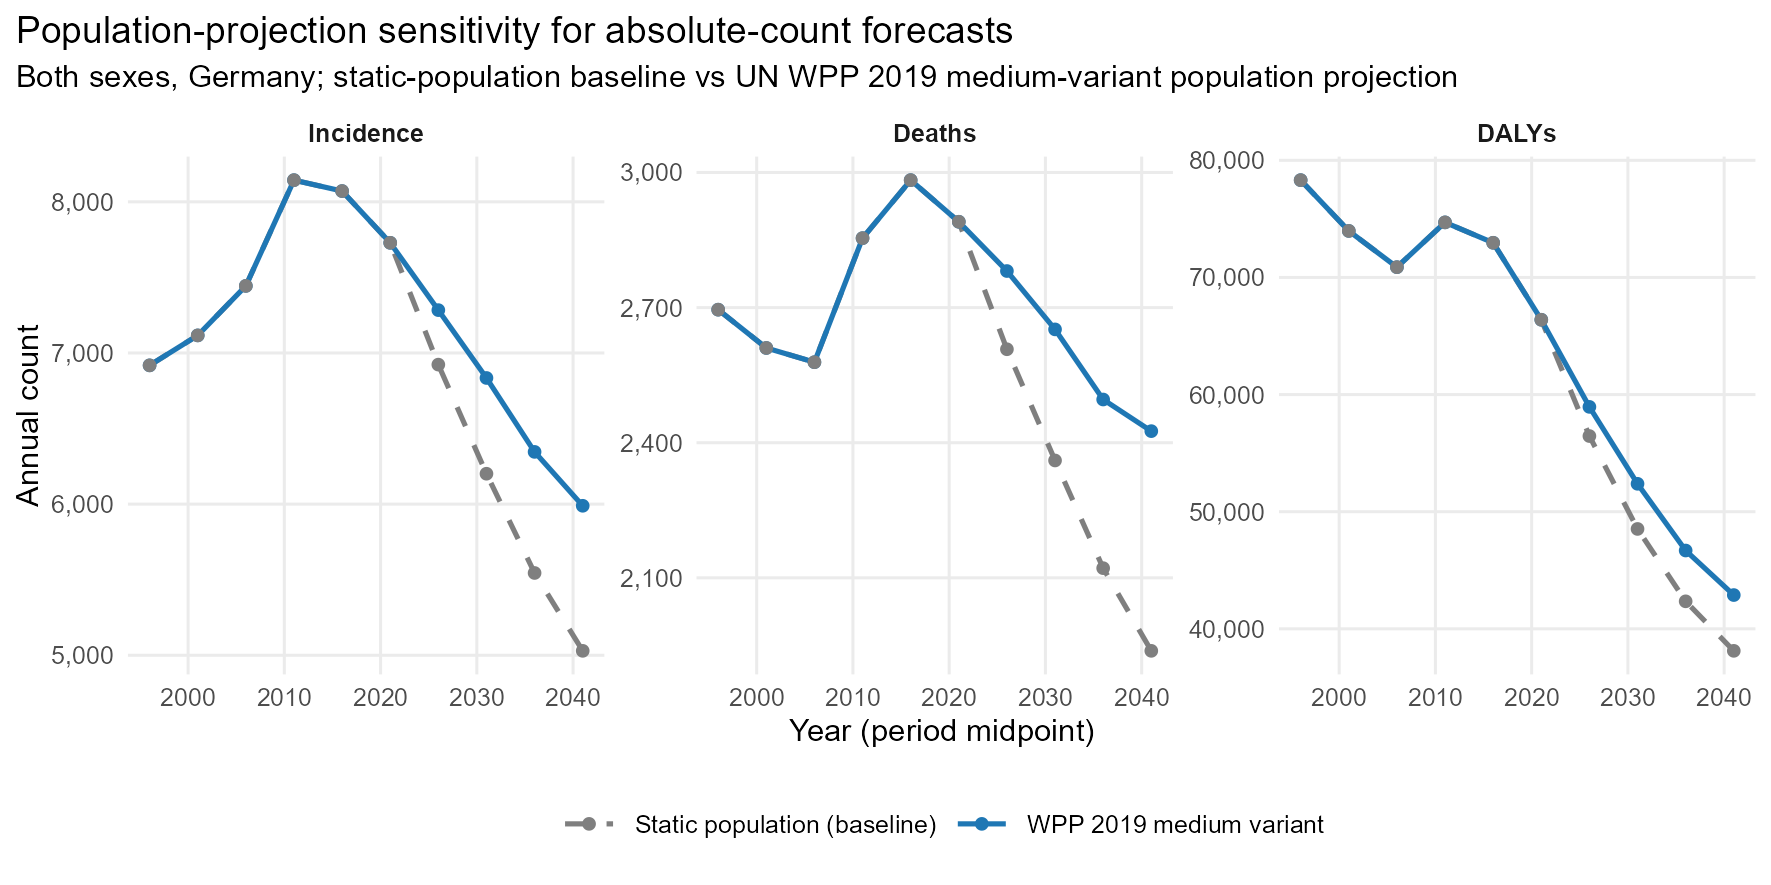
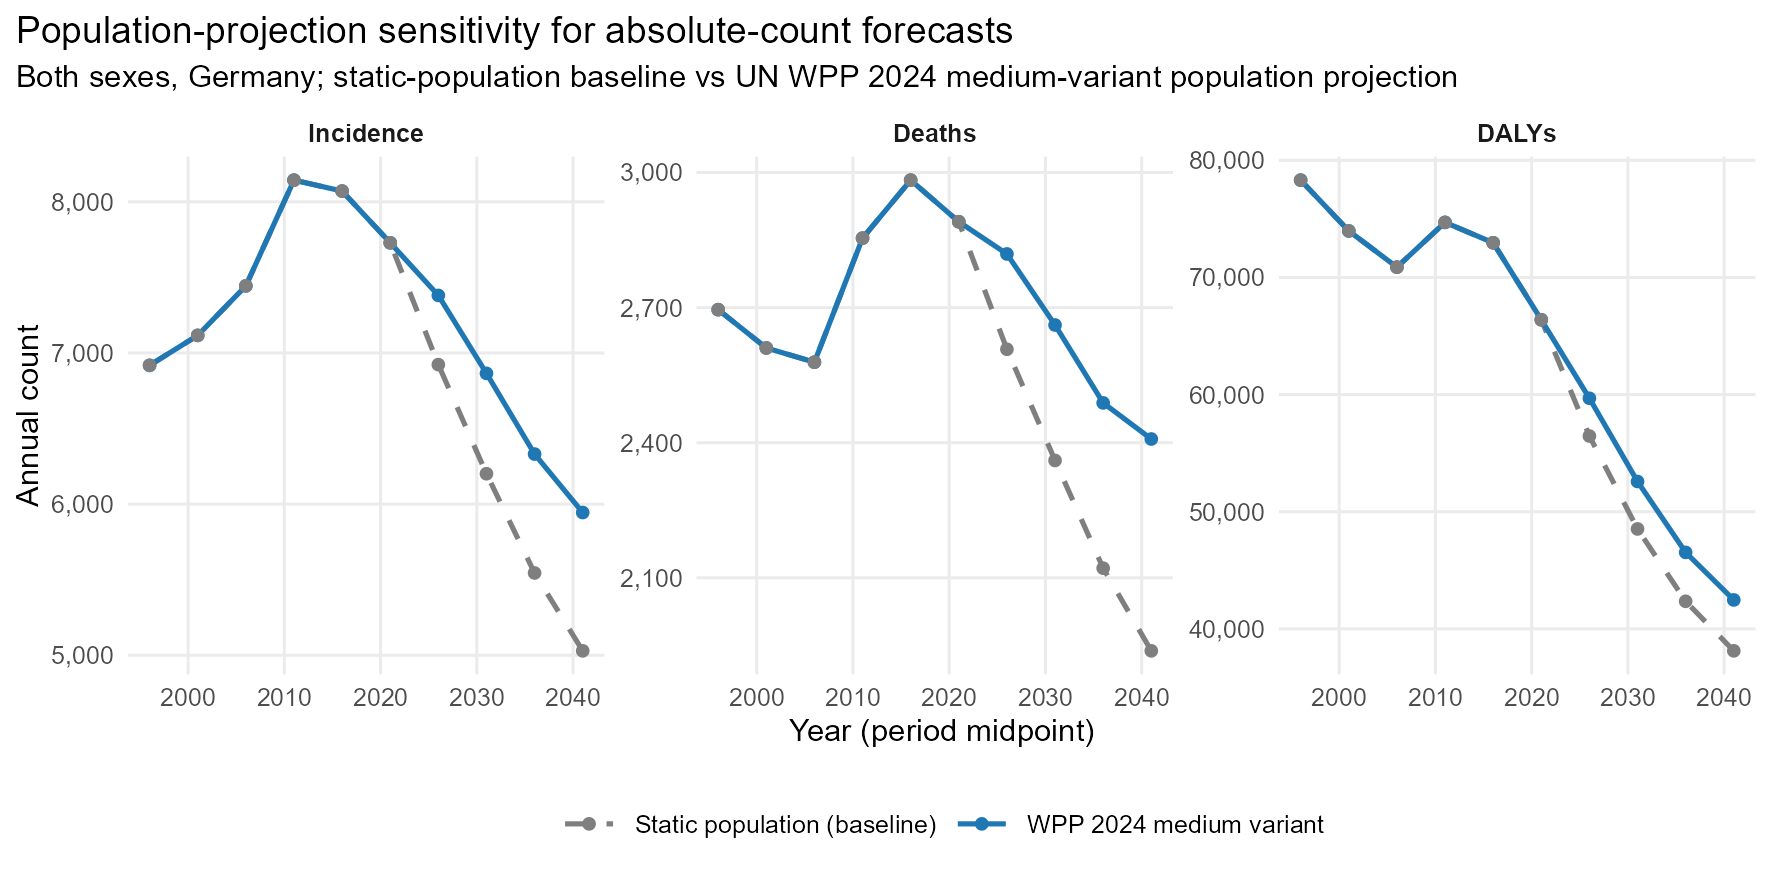
Update population-projection sensitivity from WPP 2019 to WPP 2024
UN World Population Prospects 2024 (released 11 July 2024) replaces the
WPP 2019 medium-variant projection used in the previous version. The
wpp2024 R package is installed from PPgp/wpp2024 on GitHub (not on CRAN
because of its size). Regenerated eFigure 4 and the
population_sensitivity.csv accordingly. WPP-vs-static sensitivity
narrowed slightly: under WPP 2024, deaths and incident cases by 2040
are approximately 2,410 and 5,940 (versus 2,430 and 5,990 under WPP
2019; static-population baseline ~1,940 and ~5,030 unchanged).

diff --git a/README.md b/README.md
@@ -60,7 +60,7 @@ in Germany, based on the Global Burden of Disease Study 2023.
 3. **Download the input data** following `data/README.md`. The two GBD CSV
    files go to `data/gbd_cause/` and `data/gbd_risk/`; the two optional ZfKD
    CSV files go to `data/zfkd/`. The WPP 2024 input is installed automatically
-   as an R package.
+   as an R package from GitHub (PPgp/wpp2024) by `00_setup.R`.
 
 4. **Run the analysis scripts in order**:
 
@@ -81,9 +81,11 @@ in Germany, based on the Global Burden of Disease Study 2023.
 ## R packages
 
 The setup script installs the following CRAN packages: `data.table`, `ggplot2`,
-`dplyr`, `tidyr`, `readr`, `scales`, `patchwork`, `remotes`, `segmented`,
-`wpp2024`. The `nordpred` package is installed from a GitHub fork because the
-original CRAN release is no longer maintained for current R versions.
+`dplyr`, `tidyr`, `readr`, `scales`, `patchwork`, `remotes`, `segmented`. The
+`nordpred` package is installed from a GitHub fork because the original CRAN
+release is no longer maintained for current R versions. The `wpp2024` package
+is installed from [PPgp/wpp2024](https://github.com/PPgp/wpp2024) on GitHub;
+it is not on CRAN because of its size.
 
 ## Citation
 
@@ -95,7 +97,8 @@ Underlying data should be cited as documented in `data/README.md`:
 - GBD 2023: Global Burden of Disease Collaborative Network. Global Burden of
   Disease Study 2023 (GBD 2023) Results. Seattle: IHME, 2024.
 - ZfKD: Zentrum für Krebsregisterdaten im Robert Koch-Institut.
-- WPP 2024: UN Population Division. World Population Prospects 2024.
+- WPP 2024: United Nations, Department of Economic and Social Affairs,
+  Population Division. World Population Prospects 2024 (released 11 July 2024).
 
 ## License
 

diff --git a/data/README.md b/data/README.md
@@ -57,11 +57,11 @@ Two queries (Inzidenz and Mortalität) with these settings:
 Save the two CSVs as `data/zfkd/zfkd_incidence_c00_c08.csv` and
 `data/zfkd/zfkd_mortality_c00_c08.csv`. Used only by `analysis/06_zfkd_comparison.R`.
 
-## 3. UN World Population Prospects 2019
+## 3. UN World Population Prospects 2024
 
-Source: the [`wpp2019`](https://cran.r-project.org/package=wpp2019) R package
-on CRAN. Installed automatically by `analysis/00_setup.R`. Used by
-`analysis/07_population_sensitivity.R`.
+Source: the [`wpp2024`](https://github.com/PPgp/wpp2024) R package on GitHub
+(not on CRAN because of its size). Installed automatically by
+`analysis/00_setup.R`. Used by `analysis/07_population_sensitivity.R`.
 
 ## Citations
 
@@ -80,7 +80,7 @@ When using the ZfKD inputs cite:
 > Mortalitätsdaten bereitgestellt vom Statistischen Bundesamt.
 > www.krebsdaten.de/abfrage.
 
-When using the WPP 2019 inputs cite:
+When using the WPP 2024 inputs cite:
 
 > United Nations, Department of Economic and Social Affairs, Population
-> Division. World Population Prospects 2019. New York: UN, 2019.
+> Division. World Population Prospects 2024. New York: UN, 11 July 2024.
